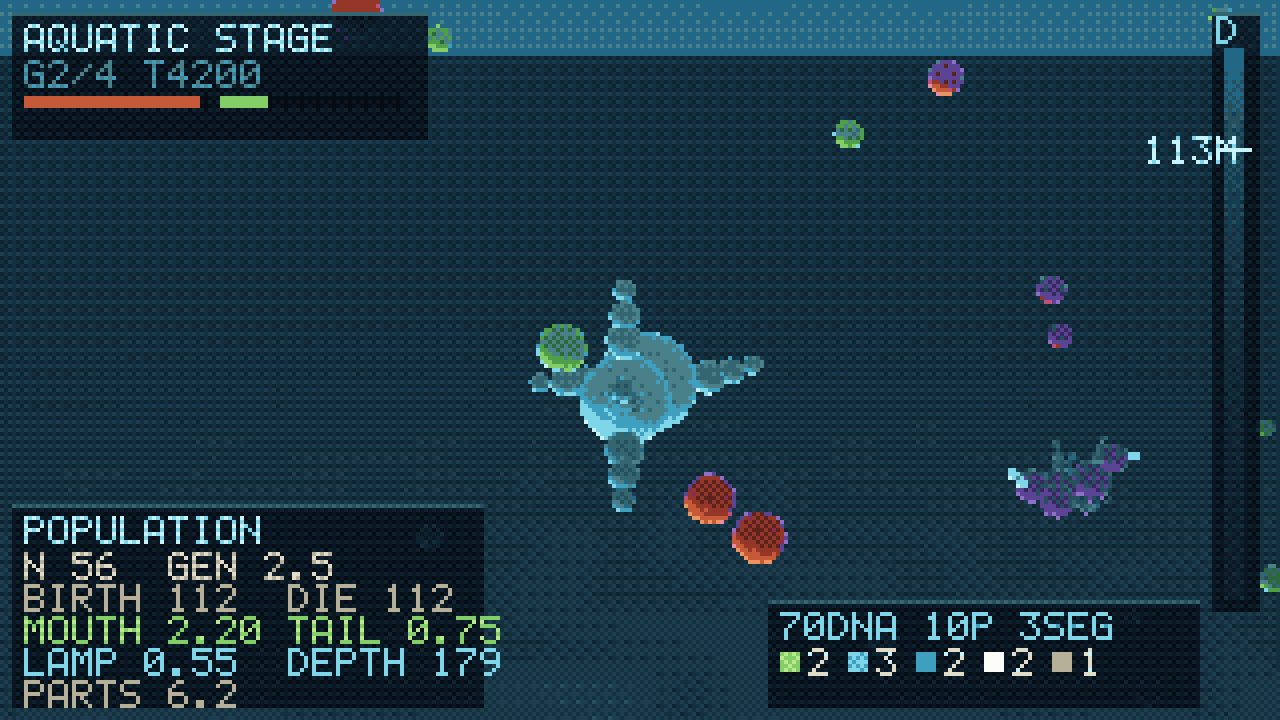
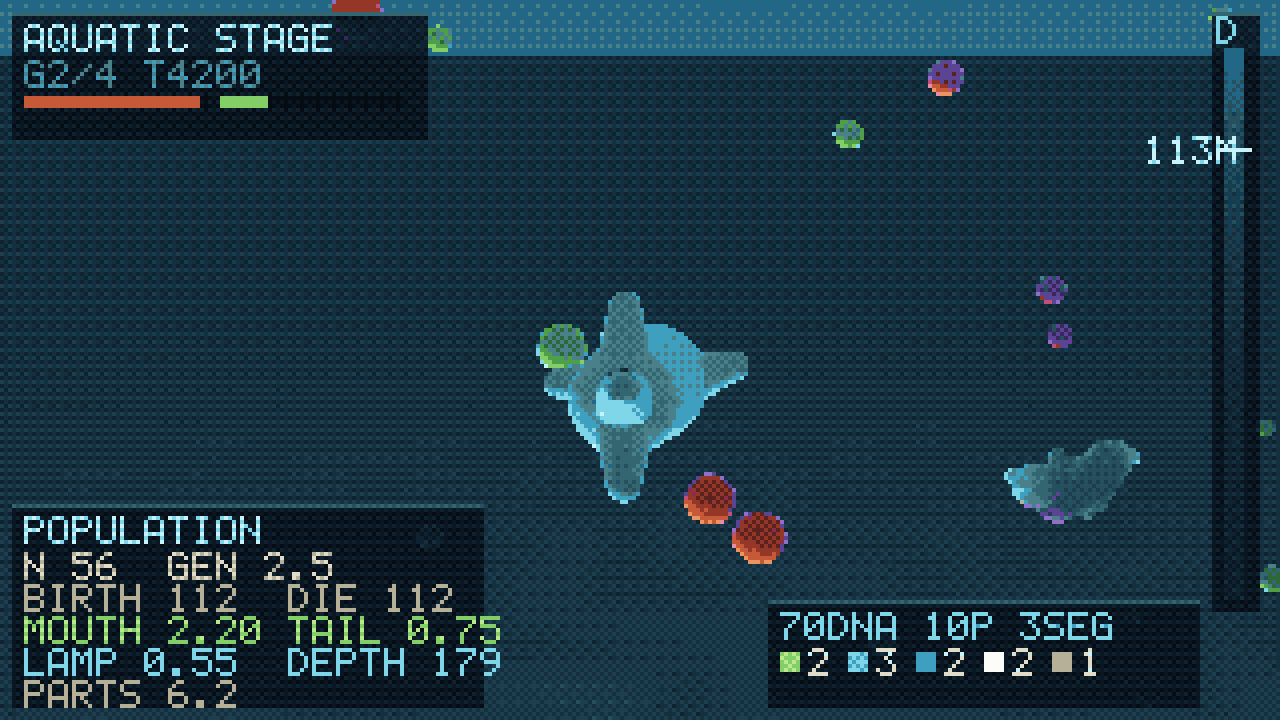
Render creatures as a smooth-minimum SDF instead of loose spheres
Bodies are now a signed distance field of tapered round cones unioned with a
polynomial smooth minimum, ray marched per pixel into the existing z-buffer.
That one operator is the difference between an animal and a bag of parts:
smin() fillets every junction rather than letting primitives intersect as
separate lobes. Albedo is blended with a softmin weight over the same
primitives, so colour transitions at the rate the geometry does.

Ray marching also sidesteps the mesh pipeline entirely - no triangles, no UVs,
no rigging - which is the reason it suits bodies that are generated rather
than authored.

The clamp in creature_sdf is not a nicety. Chaining smin() over sixteen
primitives compounds its correction term, since every union can subtract up to
k/4; with the blend radius the first version used, the field collapsed well
outside the body, the marcher hit the bounding sphere on the first step, and
every creature rendered as one enormous ball. Tracking the true minimum
alongside and refusing to blend more than one fillet below it makes the field
robust to however many parts a genome carries. Blend radii came down by
roughly half at the same time.

Creatures under 9 px on screen keep the old sphere impostors, since marching
costs far more than splatting and at that size the difference is invisible.
Both paths build from the same primitive list, so a fish does not change shape
as it approaches. A 320x180 frame costs about 40 ms.
[…]

Changed region(s): [[0.4062, 0.3667, 0.5938, 0.7333], [0.7812, 0.6111, 0.9062, 0.7333]]

diff --git a/src/render3d.c b/src/render3d.c
@@ -220,6 +220,25 @@ static void draw_water(Ctx *c, const Cp3World *w, uint32_t seed)
 
 /* ---------------- creatures ---------------- */
 
+/* A creature is a list of round cones (tapered capsules) unioned with a
+ * SMOOTH minimum rather than a plain one. That single change is what turns a
+ * body from a string of beads into one animal: smin() fillets every junction
+ * instead of letting the parts intersect as separate lobes.
+ *
+ * Ray marching this field also sidesteps the entire mesh pipeline - no
+ * triangles, no UVs, no rigging - which is exactly why it suits bodies that
+ * are generated rather than authored. */
+
+#define MAX_PRIM 44
+
+typedef struct {
+    V3    a, b;        /* axis endpoints; a == b makes it a sphere */
+    float ra, rb;      /* radius at each end                       */
+    float k;           /* blend radius when merged into the body   */
+    V3    col;
+    float em;
+} Prim;
+
 static V3 part_albedo(int t, float *emissive)
 {
     *emissive = 0.0f;
@@ -245,7 +264,17 @@ static void basis3(float yaw, float pitch, V3 *fwd, V3 *right, V3 *up)
     *up    = v3(cy * sp, -cp, sy * sp);
 }
 
-static void draw_creature(Ctx *c, const Cp3Fish *f, int is_player)
+static void push(Prim *out, int *n, V3 a, V3 b, float ra, float rb,
+                 float k, V3 col, float em)
+{
+    if (*n >= MAX_PRIM) return;
+    Prim *p = &out[(*n)++];
+    p->a = a; p->b = b; p->ra = ra; p->rb = rb; p->k = k; p->col = col; p->em = em;
+}
+
+/* Build the body in world space. Shared by both the ray-marched and the
+ * impostor path, so near and far creatures are the same animal. */
+static int build_prims(const Cp3Fish *f, int is_player, Prim *out, V3 *centre, float *bound)
 {
     V3 fwd, right, up;
     basis3(f->yaw, f->pitch, &fwd, &right, &up);
@@ -254,8 +283,6 @@ static void draw_creature(Ctx *c, const Cp3Fish *f, int is_player)
     float R = f->s.radius;
     float L = f->s.length;
 
-    /* Lineage colour: descendants of a founder keep its tint, so a successful
-     * family is visible as one colour spreading through the shoal. */
     /* Lineage colour: descendants keep their founder's tint, so a successful
      * family reads as one hue spreading through the shoal. */
     static const float LIN[6][3] = {
@@ -265,16 +292,24 @@ static void draw_creature(Ctx *c, const Cp3Fish *f, int is_player)
     const float *lc = LIN[f->lineage % 6];
     V3 body = is_player ? v3(0.46f, 0.90f, 0.98f) : v3(lc[0], lc[1], lc[2]);
 
-    /* spine, head at the front, tapering to the tail, with a swim wiggle */
     V3 segpos[CP3_MAX_SEG];
     float segrad[CP3_MAX_SEG];
     for (int i = 0; i < nseg; i++) {
-        float t = (float)i / (float)(nseg - 1);            /* 0 head .. 1 tail */
+        float t = (float)i / (float)(nseg - 1);
         float along = (0.5f - t) * L;
         float wig = sinf(f->phase - t * 2.2f) * R * 0.55f * t;
         segpos[i] = add(add(cv(f->p), mul(fwd, along)), mul(right, wig));
         segrad[i] = R * (0.62f + 0.40f * sinf(PI * (0.18f + 0.72f * (1.0f - t))));
-        sphere(c, segpos[i], segrad[i], body, 0.0f);
+    }
+
+    int n = 0;
+    float bk = R * 0.34f;                  /* fillet along the spine */
+    for (int i = 0; i + 1 < nseg; i++)
+        push(out, &n, segpos[i], segpos[i + 1], segrad[i], segrad[i + 1], bk, body, 0.0f);
+    /* taper the last segment into a tail tip rather than ending on a ball */
+    {
+        V3 tip = add(segpos[nseg - 1], mul(fwd, -L * 0.22f));
+        push(out, &n, segpos[nseg - 1], tip, segrad[nseg - 1], R * 0.13f, bk, body, 0.0f);
     }
 
     for (int i = 0; i < CP3_MAX_PARTS; i++) {
@@ -290,42 +325,239 @@ static void draw_creature(Ctx *c, const Cp3Fish *f, int is_player)
 
         float er;
         V3 col = part_albedo(t, &er);
-        V3 base = add(segpos[sg], mul(ax, segrad[sg] * 0.85f));
+        V3 base = add(segpos[sg], mul(ax, segrad[sg] * 0.55f));
 
         switch (t) {
         case CP3_FIN:
         case CP3_TAIL: {
-            /* a blade suggested by three shrinking spheres along the axis */
-            float span = (t == CP3_TAIL ? 1.5f : 1.1f) * R;
+            float span = (t == CP3_TAIL ? 1.7f : 1.25f) * R;
             float flap = sinf(f->phase * 1.6f + (float)i) * 0.35f;
             V3 dir = norm(add(ax, mul(up, flap)));
-            for (int k = 0; k < 3; k++) {
-                float u = 0.35f + 0.42f * k;
-                sphere(c, add(base, mul(dir, span * u)), R * (0.34f - 0.07f * k), col, 0.0f);
-            }
+            /* a membrane: wide at the root, thin at the trailing edge */
+            push(out, &n, base, add(base, mul(dir, span)),
+                 R * 0.40f, R * 0.10f, R * 0.26f, col, 0.0f);
             break;
         }
         case CP3_SPIKE:
-            for (int k = 0; k < 3; k++)
-                sphere(c, add(base, mul(ax, R * 0.35f * k)), R * (0.28f - 0.08f * k), col, 0.0f);
+            push(out, &n, base, add(base, mul(ax, R * 1.15f)),
+                 R * 0.30f, R * 0.03f, R * 0.16f, col, 0.0f);
             break;
         case CP3_JAW:
-            sphere(c, add(base, mul(ax, R * 0.20f)), R * 0.42f, col, 0.0f);
-            sphere(c, add(base, mul(ax, R * 0.55f)), R * 0.24f, col, 0.0f);
+            push(out, &n, base, add(base, mul(ax, R * 0.75f)),
+                 R * 0.46f, R * 0.20f, R * 0.22f, col, 0.0f);
             break;
-        case CP3_EYE:
-            sphere(c, base, R * 0.30f, col, 0.0f);
-            sphere(c, add(base, mul(ax, R * 0.20f)), R * 0.16f, v3(0.04f, 0.05f, 0.08f), 0.0f);
+        case CP3_EYE: {
+            /* eyes stay their own lobe - a fillet here reads as a tumour */
+            V3 e = add(base, mul(ax, R * 0.22f));
+            push(out, &n, e, e, R * 0.28f, R * 0.28f, R * 0.05f, col, 0.0f);
+            V3 pu = add(e, mul(ax, R * 0.19f));
+            push(out, &n, pu, pu, R * 0.13f, R * 0.13f, R * 0.04f,
+                 v3(0.05f, 0.06f, 0.10f), 0.0f);
             break;
-        case CP3_LIGHT:
-            /* the only thing in the deep that is visible on its own terms */
-            sphere(c, add(base, mul(ax, R * 0.35f)), R * 0.26f, col, er);
+        }
+        case CP3_LIGHT: {
+            V3 e = add(base, mul(ax, R * 0.42f));
+            push(out, &n, e, e, R * 0.24f, R * 0.24f, R * 0.10f, col, er);
             break;
+        }
         default:
-            sphere(c, base, R * 0.32f, col, er);
+            push(out, &n, base, add(base, mul(ax, R * 0.28f)),
+                 R * 0.34f, R * 0.30f, R * 0.20f, col, er);
             break;
         }
     }
+
+    /* bounding sphere, so the marcher can skip straight to the body */
+    V3 mid = cv(f->p);
+    float rad = 0.0f;
+    for (int i = 0; i < n; i++) {
+        float da = sqrtf(dot(sub(out[i].a, mid), sub(out[i].a, mid))) + out[i].ra + out[i].k;
+        float db = sqrtf(dot(sub(out[i].b, mid), sub(out[i].b, mid))) + out[i].rb + out[i].k;
+        if (da > rad) rad = da;
+        if (db > rad) rad = db;
+    }
+    *centre = mid;
+    *bound = rad + 1.0f;
+    return n;
+}
+
+/* ---------------- the distance field ---------------- */
+
+/* round cone: a segment with a radius that varies along it. Approximate (the
+ * exact form needs the tangent correction) so the marcher takes 0.8 steps. */
+static float sd_cone(V3 p, const Prim *pr)
+{
+    V3 ba = sub(pr->b, pr->a);
+    float l2 = dot(ba, ba);
+    V3 pa = sub(p, pr->a);
+    float t = l2 > 1e-6f ? clampf(dot(pa, ba) / l2, 0.0f, 1.0f) : 0.0f;
+    V3 d = sub(pa, mul(ba, t));
+    return sqrtf(dot(d, d)) - mixf(pr->ra, pr->rb, t);
+}
+
+/* polynomial smooth minimum - the whole point of this file */
+static float smin(float a, float b, float k)
+{
+    if (k <= 1e-4f) return a < b ? a : b;
+    float h = clampf(0.5f + 0.5f * (a - b) / k, 0.0f, 1.0f);
+    return mixf(a, b, h) - k * h * (1.0f - h);
+}
+
+/* Distance plus a softmin-weighted colour, so the albedo blends across a
+ * junction at the same rate the geometry does.
+ *
+ * The clamp at the end is load-bearing. Chaining smin() over sixteen
+ * primitives compounds its correction term: every union can subtract up to
+ * k/4, and with a generous k the field collapses far outside the body, so the
+ * marcher hits the bounding sphere and every animal renders as one enormous
+ * ball. Tracking the true minimum alongside and refusing to blend more than
+ * one fillet's worth below it keeps the field honest no matter how many parts
+ * a genome piles on. */
+static float creature_sdf(const Prim *pr, int n, V3 q, V3 *col, float *em)
+{
+    float d = 1e9f, dmin = 1e9f, kmax = 0.0f;
+    V3 c = v3(0, 0, 0);
+    float e = 0.0f, wsum = 1e-6f;
+    for (int i = 0; i < n; i++) {
+        float di = sd_cone(q, &pr[i]);
+        if (di < dmin) dmin = di;
+        if (pr[i].k > kmax) kmax = pr[i].k;
+        d = smin(d, di, pr[i].k);
+        if (col) {
+            float w = expf(-di * 0.30f);
+            c = add(c, mul(pr[i].col, w));
+            e += pr[i].em * w;
+            wsum += w;
+        }
+    }
+    if (col) { *col = mul(c, 1.0f / wsum); *em = e / wsum; }
+    float floor_d = dmin - kmax * 0.55f;
+    return d < floor_d ? floor_d : d;
+}
+
+static V3 sdf_normal(const Prim *pr, int n, V3 q)
+{
+    const float h = 0.35f;
+    float dx = creature_sdf(pr, n, v3(q.x + h, q.y, q.z), NULL, NULL)
+             - creature_sdf(pr, n, v3(q.x - h, q.y, q.z), NULL, NULL);
+    float dy = creature_sdf(pr, n, v3(q.x, q.y + h, q.z), NULL, NULL)
+             - creature_sdf(pr, n, v3(q.x, q.y - h, q.z), NULL, NULL);
+    float dz = creature_sdf(pr, n, v3(q.x, q.y, q.z + h), NULL, NULL)
+             - creature_sdf(pr, n, v3(q.x, q.y, q.z - h), NULL, NULL);
+    return norm(v3(dx, dy, dz));
+}
+
+static void shade_hit(Ctx *c, int x, int y, V3 q, V3 nrm, V3 albedo, float em, float vz)
+{
+    V3 sun = norm(SUN);
+    float lam = clampf(-dot(nrm, sun), 0.0f, 1.0f);
+    float ndotv = clampf(-dot(nrm, c->fwd), 0.0f, 1.0f);
+    float rim = powf(1.0f - ndotv, 2.5f);
+    float ll = lit(q.y);
+    float amb = 0.30f + 0.40f * ll;
+    float k = amb + 0.95f * lam * (0.45f + 0.55f * ll);
+
+    V3 col = v3(albedo.x * k, albedo.y * k, albedo.z * k);
+    col = add(col, mul(v3(0.50f, 0.86f, 1.0f), rim * 0.42f));
+    if (em > 0.0f) col = add(col, mul(albedo, em));
+    put(c, x, y, fogged(col, vz, q.y));
+}
+
+/* ---------------- ray-marched path ---------------- */
+
+static void march_creature(Ctx *c, const Prim *pr, int n, V3 centre, float bound)
+{
+    /* project the bounding sphere to a screen rect */
+    V3 d = sub(centre, c->eye);
+    float vz = dot(d, c->fwd);
+    if (vz < 8.0f) return;
+    float vx = dot(d, c->right), vy = dot(d, c->up);
+    float sx = c->W * 0.5f + c->focal * vx / vz;
+    float sy = c->H * 0.5f - c->focal * vy / vz;
+    float pr_px = c->focal * bound / vz;
+
+    int x0 = (int)floorf(sx - pr_px), x1 = (int)ceilf(sx + pr_px);
+    int y0 = (int)floorf(sy - pr_px), y1 = (int)ceilf(sy + pr_px);
+    if (x1 < 0 || y1 < 0 || x0 >= c->W || y0 >= c->H) return;
+    if (x0 < 0) x0 = 0;
+    if (y0 < 0) y0 = 0;
+    if (x1 >= c->W) x1 = c->W - 1;
+    if (y1 >= c->H) y1 = c->H - 1;
+
+    for (int y = y0; y <= y1; y++) {
+        for (int x = x0; x <= x1; x++) {
+            float px = ((float)x + 0.5f - c->W * 0.5f) / c->focal;
+            float py = -((float)y + 0.5f - c->H * 0.5f) / c->focal;
+            V3 ray = norm(add(add(mul(c->right, px), mul(c->up, py)), c->fwd));
+
+            /* enter at the bounding sphere rather than at the camera */
+            V3 oc = sub(c->eye, centre);
+            float b = dot(oc, ray);
+            float cc = dot(oc, oc) - bound * bound;
+            float disc = b * b - cc;
+            if (disc <= 0.0f) continue;
+            float sq = sqrtf(disc);
+            float t = -b - sq, tmax = -b + sq;
+            if (tmax < 0.0f) continue;
+            if (t < 0.0f) t = 0.0f;
+
+            float *zp = &c->zb[(size_t)y * c->W + x];
+            int hit = 0;
+            V3 q = v3(0, 0, 0);
+            for (int i = 0; i < 64 && t < tmax; i++) {
+                q = add(c->eye, mul(ray, t));
+                float dist = creature_sdf(pr, n, q, NULL, NULL);
+                if (dist < 0.12f) { hit = 1; break; }
+                t += dist * 0.8f;      /* the cone SDF is approximate */
+            }
+            if (!hit) continue;
+
+            float hz = dot(sub(q, c->eye), c->fwd);
+            if (hz >= *zp) continue;
+            *zp = hz;
+
+            V3 albedo; float em;
+            creature_sdf(pr, n, q, &albedo, &em);
+            shade_hit(c, x, y, q, sdf_normal(pr, n, q), albedo, em, hz);
+        }
+    }
+}
+
+/* ---------------- impostor path (distant creatures) ---------------- */
+
+static void impostor_creature(Ctx *c, const Prim *pr, int n)
+{
+    for (int i = 0; i < n; i++) {
+        sphere(c, pr[i].a, pr[i].ra, pr[i].col, pr[i].em);
+        if (pr[i].ra != pr[i].rb || pr[i].a.x != pr[i].b.x ||
+            pr[i].a.y != pr[i].b.y || pr[i].a.z != pr[i].b.z) {
+            V3 mid = mul(add(pr[i].a, pr[i].b), 0.5f);
+            sphere(c, mid, (pr[i].ra + pr[i].rb) * 0.5f, pr[i].col, pr[i].em);
+            sphere(c, pr[i].b, pr[i].rb, pr[i].col, pr[i].em);
+        }
+    }
+}
+
+/* Ray marching a body is far more expensive than splatting spheres, so only
+ * creatures big enough on screen for the difference to be visible pay for it.
+ * Everything else keeps the impostors it always had. */
+#define MARCH_MIN_PX 9.0f
+
+static void draw_creature(Ctx *c, const Cp3Fish *f, int is_player)
+{
+    Prim pr[MAX_PRIM];
+    V3 centre;
+    float bound;
+    int n = build_prims(f, is_player, pr, &centre, &bound);
+    if (n <= 0) return;
+
+    V3 d = sub(centre, c->eye);
+    float vz = dot(d, c->fwd);
+    if (vz < 8.0f) return;
+    float px = c->focal * bound / vz;
+
+    if (px >= MARCH_MIN_PX) march_creature(c, pr, n, centre, bound);
+    else                    impostor_creature(c, pr, n);
 }
 
 /* ---------------- HUD ---------------- */

diff --git a/README.md b/README.md
@@ -46,12 +46,33 @@ coverage and thrust are all resolved against those directions.
 | lung | 10 | buoyancy control, so holding a depth stops costing thrust |
 | light | 14 | a photophore: sight the depth cannot take away |
 
-The renderer is a **sphere-impostor rasteriser with a z-buffer**: everything
-solid is a sphere, so the scene is drawn by projecting centres, rasterising
-screen-space circles and solving depth and normal per pixel. Correct occlusion
-and real lighting for about the cost of drawing circles — no triangles, no
-matrices, no clipper. Surface and seabed are analytic ray-plane intersections.
-Output goes through the same palette pipeline as stage 1.
+### Rendering bodies
+
+Creatures are a **signed distance field unioned with a smooth minimum**, ray
+marched per pixel. That one operator is the difference between a body and a
+bag of parts: `smin()` fillets every junction instead of letting primitives
+intersect as separate lobes. It also sidesteps the entire mesh pipeline — no
+triangles, no UVs, no rigging — which is exactly why it suits bodies that are
+generated rather than authored.
+
+| before: plain union, sphere impostors | after: smooth-minimum SDF |
+| --- | --- |
+| ![beads](docs/aqua_beads.png) | ![blended](docs/aqua.png) |
+
+The clamp inside `creature_sdf` is load-bearing, and the first attempt did not
+have it. Chaining `smin()` over sixteen primitives compounds its correction
+term — each union can subtract up to `k/4` — so with a generous blend radius
+the field collapses far outside the body, the marcher hits the bounding sphere
+immediately, and every animal renders as one enormous ball. Tracking the true
+minimum alongside and refusing to blend more than one fillet below it keeps the
+field honest however many parts a genome piles on.
+
+Everything else is still a **sphere impostor into a z-buffer**: centres are
+projected, screen-space circles rasterised, depth and normal solved per pixel.
+Surface and seabed are analytic ray-plane intersections. Creatures smaller than
+9 px on screen fall back to impostors, since ray marching a body costs far more
+than splatting spheres and at that size nobody can tell. A 320x180 frame costs
+roughly 40 ms. Output goes through the same palette pipeline as stage 1.
 
 ## Natural selection
 
